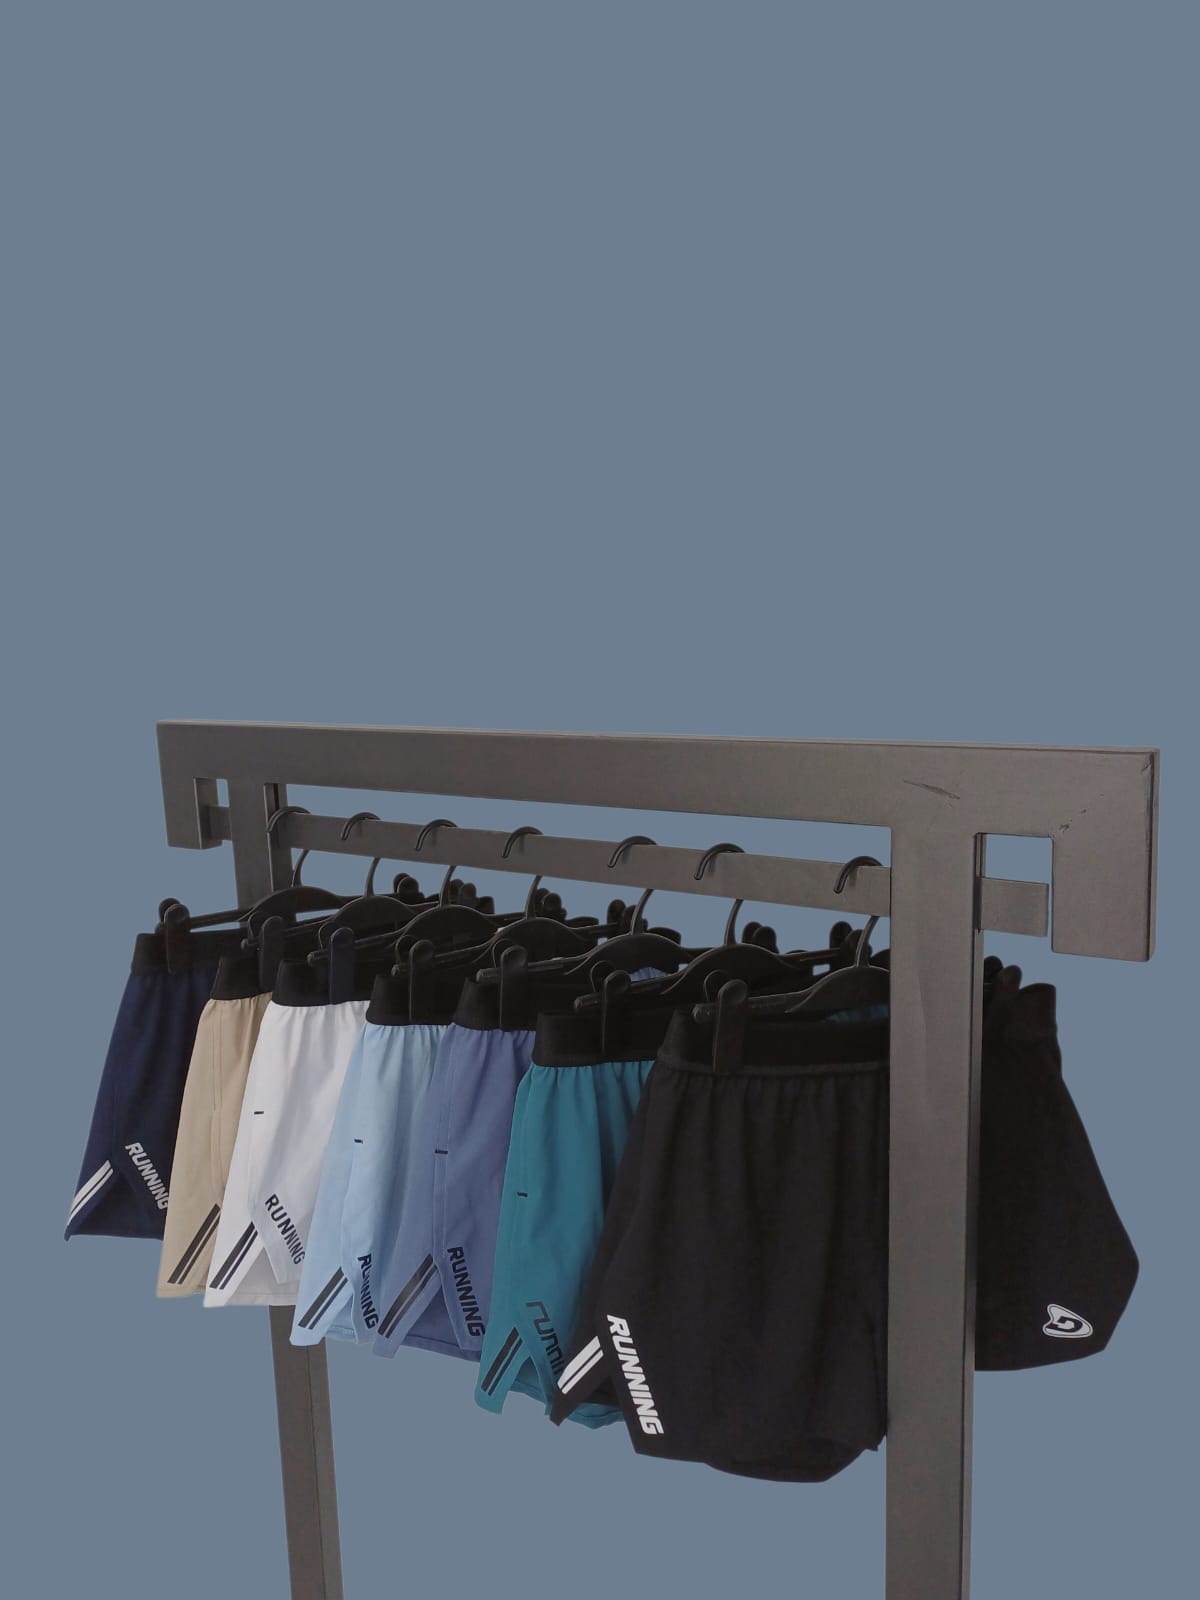
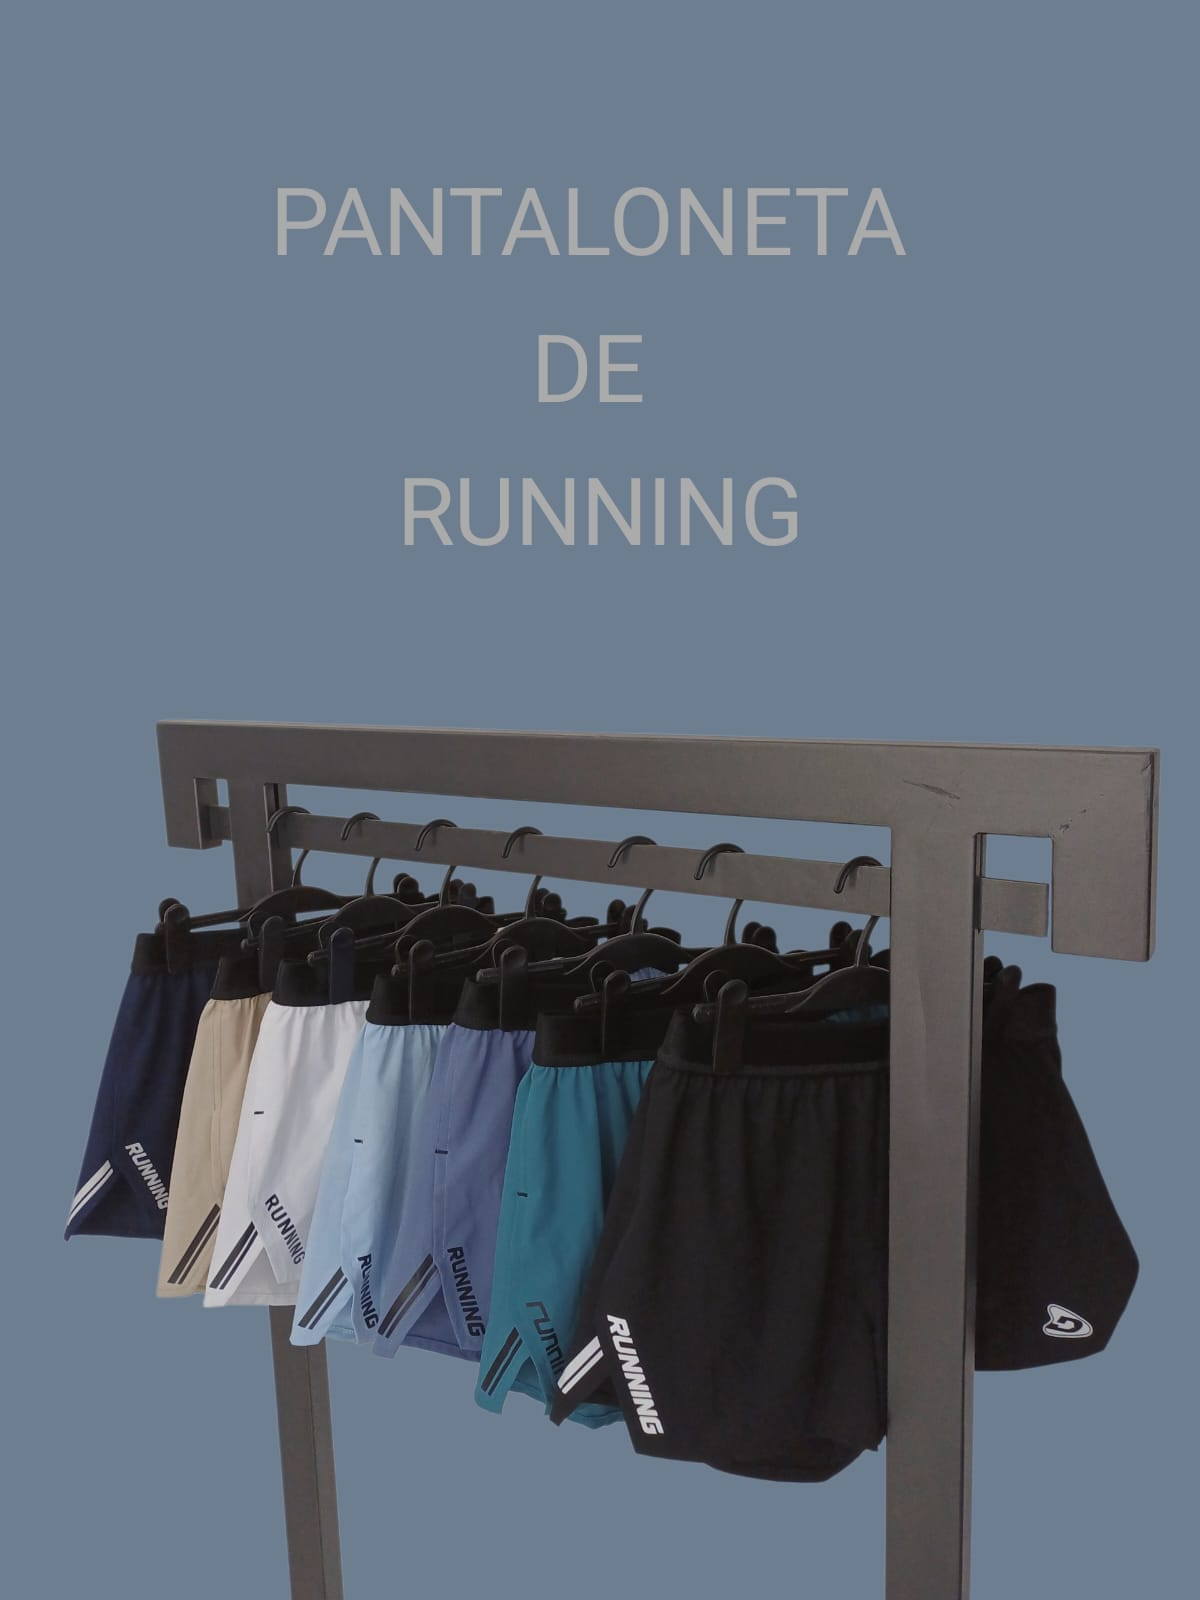
chore(pantaloneta-colores): reemplazar imagen del rack con version nueva
Cliente proveyo nueva foto del rack de pantalonetas en WhatsApp
(10:25 AM). Reemplazado assets/products/pantaloneta-colores.jpg
(68 KB -> 78 KB).

CACHE BUSTING: v=34 -> v=35

Changed region(s): [[0.2158, 0.0938, 0.7708, 0.1562], [0.3392, 0.2812, 0.6783, 0.3438], [0.4317, 0.1875, 0.5242, 0.25]]

diff --git a/producto.html b/producto.html
@@ -28,7 +28,7 @@
 <link rel="preconnect" href="https://fonts.googleapis.com">
 <link rel="preconnect" href="https://fonts.gstatic.com" crossorigin>
 <link href="https://fonts.googleapis.com/css2?family=Bebas+Neue&family=Montserrat:wght@200;300;400;500;600;700&family=Space+Mono:wght@400;700&display=swap" rel="stylesheet">
-<link rel="stylesheet" href="assets/styles.css?v=34" />
+<link rel="stylesheet" href="assets/styles.css?v=35" />
 </head>
 <body>
 
@@ -148,9 +148,9 @@
   <svg width="28" height="28" viewBox="0 0 24 24" fill="currentColor" aria-hidden="true"><path d="M.057 24l1.687-6.163a11.867 11.867 0 01-1.587-5.946C.16 5.335 5.495 0 12.05 0a11.817 11.817 0 018.413 3.488 11.824 11.824 0 013.48 8.414c-.003 6.557-5.338 11.892-11.893 11.892a11.9 11.9 0 01-5.688-1.448L.057 24zm6.597-3.807c1.676.995 3.276 1.591 5.392 1.592 5.448 0 9.886-4.434 9.889-9.885.002-5.462-4.415-9.89-9.881-9.892-5.452 0-9.887 4.434-9.889 9.884-.001 2.225.651 3.891 1.746 5.634l-.999 3.648 3.742-.981z"/></svg>
 </a>
 
-<script src="assets/config.js?v=34"></script>
-<script src="assets/products.js?v=34"></script>
-<script src="assets/product-detail.js?v=34"></script>
-<script src="assets/script.js?v=34"></script>
+<script src="assets/config.js?v=35"></script>
+<script src="assets/products.js?v=35"></script>
+<script src="assets/product-detail.js?v=35"></script>
+<script src="assets/script.js?v=35"></script>
 </body>
 </html>

diff --git a/index.html b/index.html
@@ -40,7 +40,7 @@
 <link rel="preconnect" href="https://fonts.gstatic.com" crossorigin>
 <link rel="preload" as="style" href="https://fonts.googleapis.com/css2?family=Bebas+Neue&family=Montserrat:wght@200;300;400;500;600;700&family=Space+Mono:wght@400;700&display=swap" />
 <link href="https://fonts.googleapis.com/css2?family=Bebas+Neue&family=Montserrat:wght@200;300;400;500;600;700&family=Space+Mono:wght@400;700&display=swap" rel="stylesheet">
-<link rel="stylesheet" href="assets/styles.css?v=34" />
+<link rel="stylesheet" href="assets/styles.css?v=35" />
 
 <!-- JSON-LD: Organization + LocalBusiness + WebSite -->
 <script type="application/ld+json">
@@ -399,8 +399,8 @@
   <svg width="28" height="28" viewBox="0 0 24 24" fill="currentColor" aria-hidden="true"><path d="M.057 24l1.687-6.163a11.867 11.867 0 01-1.587-5.946C.16 5.335 5.495 0 12.05 0a11.817 11.817 0 018.413 3.488 11.824 11.824 0 013.48 8.414c-.003 6.557-5.338 11.892-11.893 11.892a11.9 11.9 0 01-5.688-1.448L.057 24zm6.597-3.807c1.676.995 3.276 1.591 5.392 1.592 5.448 0 9.886-4.434 9.889-9.885.002-5.462-4.415-9.89-9.881-9.892-5.452 0-9.887 4.434-9.889 9.884-.001 2.225.651 3.891 1.746 5.634l-.999 3.648 3.742-.981z"/></svg>
 </a>
 
-<script src="assets/config.js?v=34"></script>
-<script src="assets/products.js?v=34"></script>
-<script src="assets/script.js?v=34"></script>
+<script src="assets/config.js?v=35"></script>
+<script src="assets/products.js?v=35"></script>
+<script src="assets/script.js?v=35"></script>
 </body>
 </html>